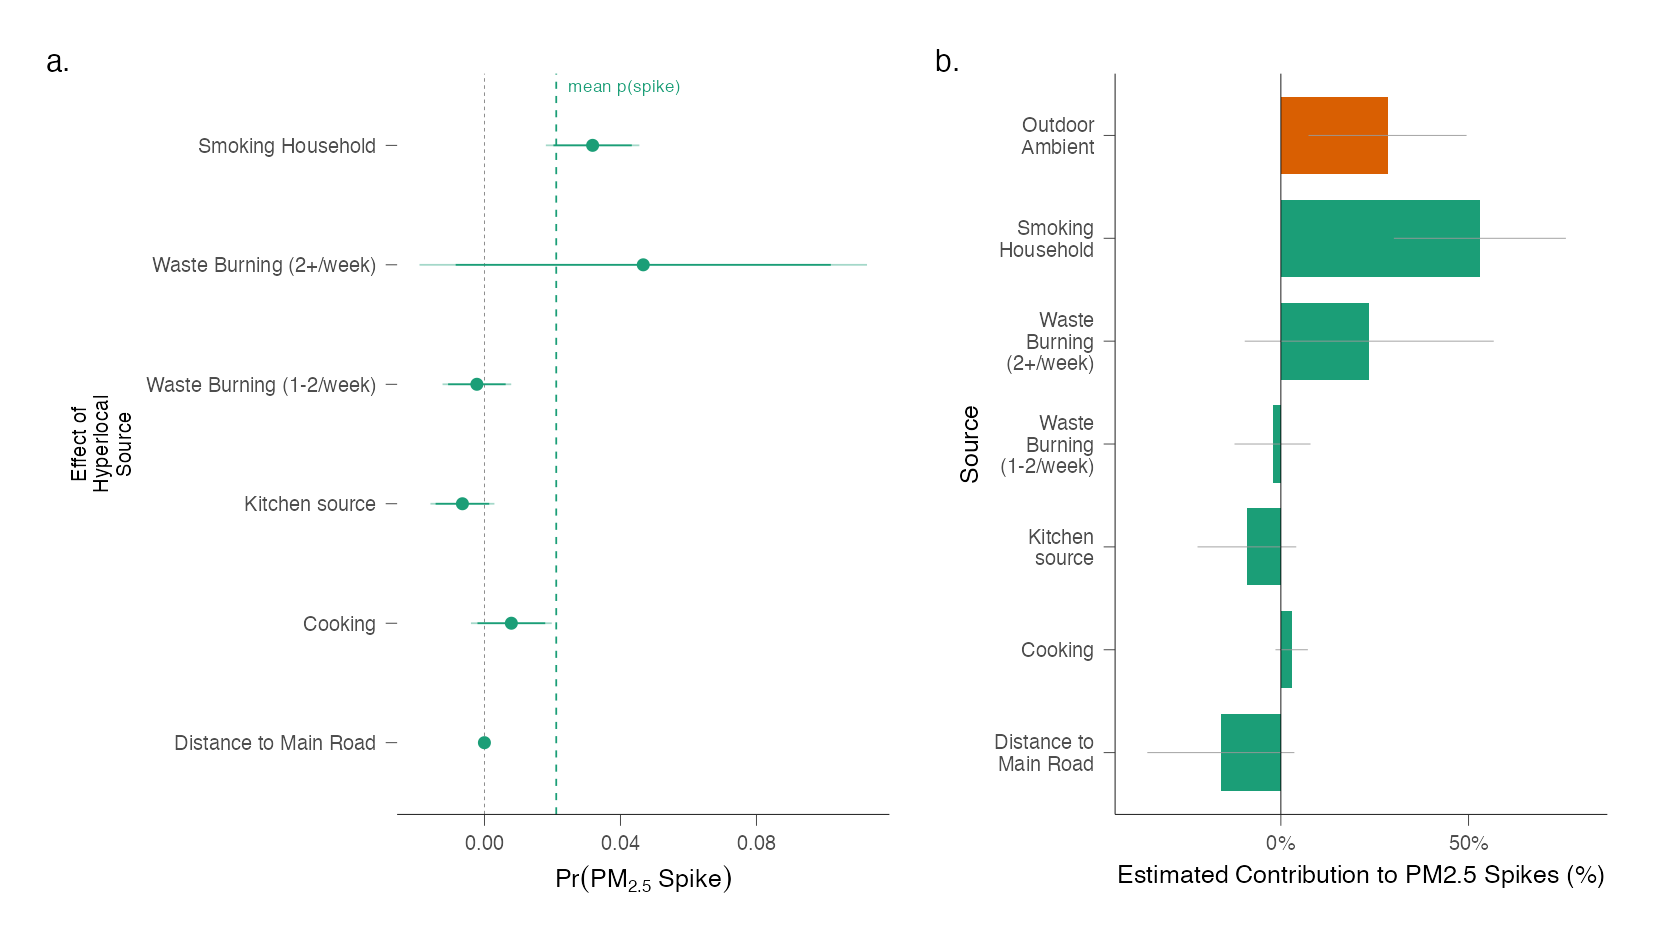
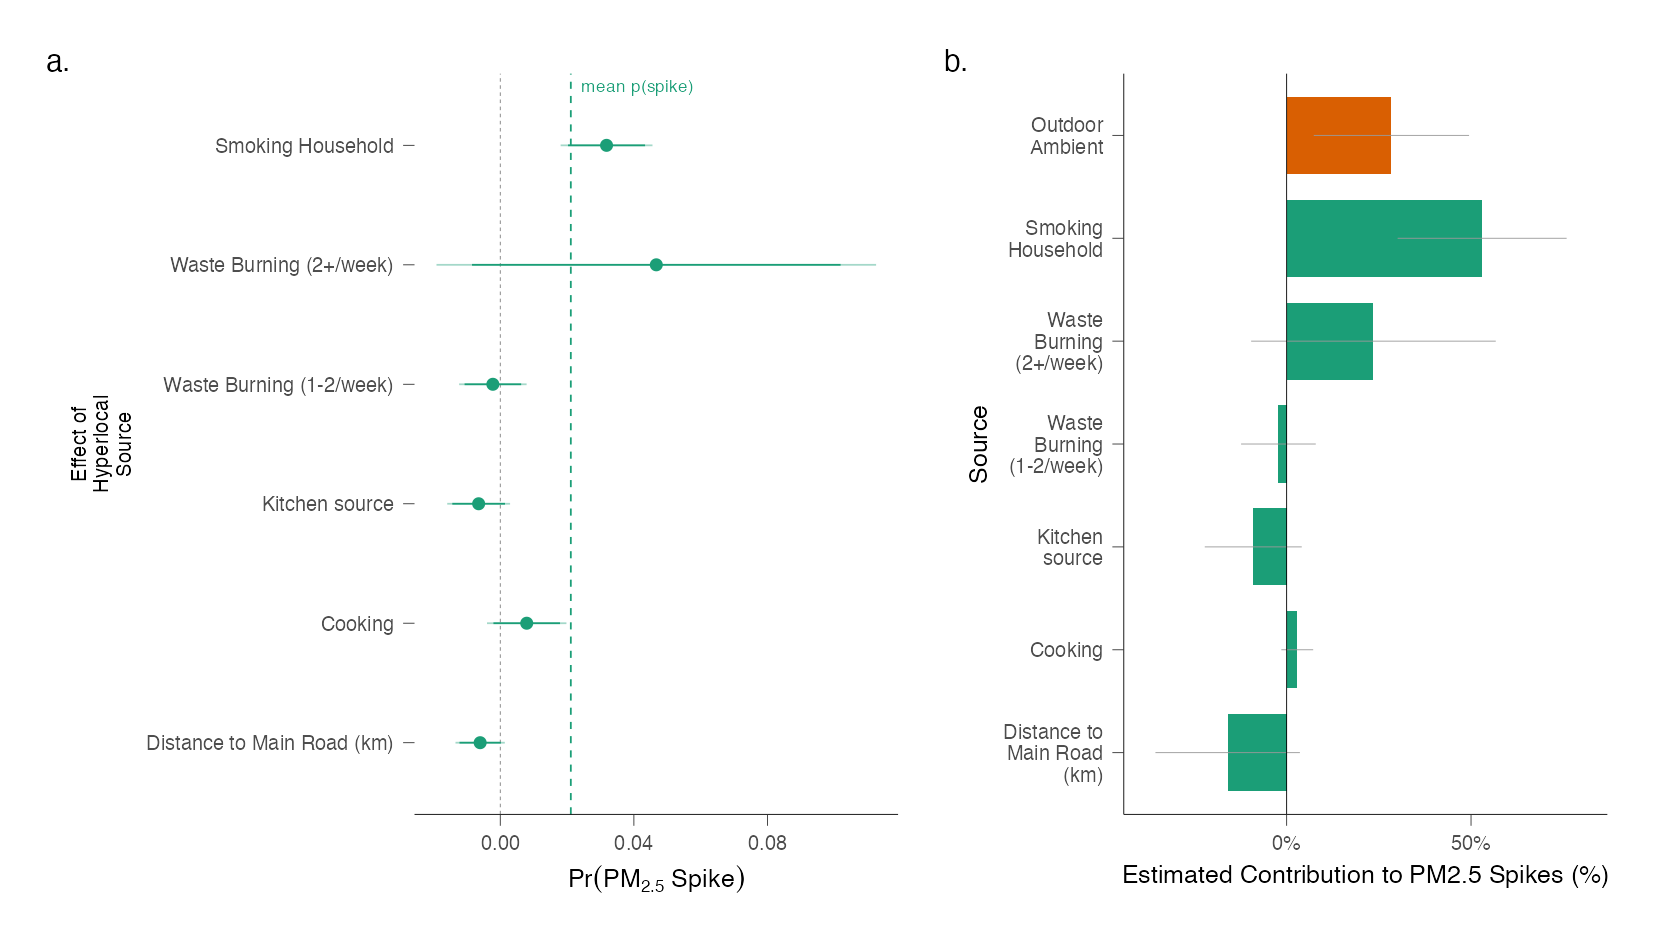
updated appendix and fig3 code to go from distance to road in m to km ; this makes it clear how dist to road can contribute to peaks

diff --git a/output/tables/reg_outdoor_burning.tex b/output/tables/reg_outdoor_burning.tex
@@ -4,29 +4,27 @@
 \begin{tabular}{lcc}
    \tabularnewline \midrule \midrule
    Dependent Variable: & \multicolumn{2}{c}{Outdoor PM2.5}\\
-                                                       & Closest 3 Sensors & HH Within 2km of Outdoor Sensor \\   
-   Model:                                              & (1)               & (2)\\  
+                            & Closest 3 Sensors & HH Within 2km of Outdoor Sensor \\   
+   Model:                   & (1)               & (2)\\  
    \midrule
    \emph{Variables}\\
-   trash\_burning\_1week\_baseline::                   & 2.70$^{***}$      &   \\   
-                                                       & (0.427)           &   \\   
-   trash\_burning\_1week\_baseline $=$ 1or2times       & 0.899             & 0.410\\   
-                                                       & (0.770)           & (0.734)\\   
-   trash\_burning\_1week\_baseline $=$ 3ormoretimes    & 3.65$^{***}$      & 5.25$^{***}$\\   
-                                                       & (0.991)           & (1.79)\\   
-   Outdoor Temperature                                 & -0.381            & 0.145\\   
-                                                       & (0.243)           & (0.255)\\   
-   Outdoor Humidity                                    & -0.194$^{***}$    & -0.180$^{***}$\\   
-                                                       & (0.042)           & (0.048)\\   
+   Waste Burning (1-2/week) & 0.900             & 0.410\\   
+                            & (0.770)           & (0.734)\\   
+   Waste Burning (3+/week)  & 3.65$^{***}$      & 5.25$^{***}$\\   
+                            & (0.991)           & (1.79)\\   
+   Outdoor Temperature      & -0.380            & 0.145\\   
+                            & (0.243)           & (0.255)\\   
+   Outdoor Humidity         & -0.194$^{***}$    & -0.180$^{***}$\\   
+                            & (0.042)           & (0.048)\\   
    \midrule
    \emph{Fixed-effects}\\
-   Week FE                                             & Yes               & Yes\\  
-   Hour FE                                             & Yes               & Yes\\  
+   Week FE                  & Yes               & Yes\\  
+   Hour FE                  & Yes               & Yes\\  
    \midrule
    \emph{Fit statistics}\\
-   Observations                                        & 826,446           & 423,609\\  
-   R$^2$                                               & 0.38575           & 0.37695\\  
-   Within R$^2$                                        & 0.00944           & 0.01310\\  
+   Observations             & 823,850           & 423,609\\  
+   R$^2$                    & 0.38558           & 0.37695\\  
+   Within R$^2$             & 0.00940           & 0.01310\\  
    \midrule \midrule
    \multicolumn{3}{l}{\emph{Clustered (respondent\_id \& date\_hour) standard-errors in parentheses}}\\
    \multicolumn{3}{l}{\emph{Signif. Codes: ***: 0.01, **: 0.05, *: 0.1}}\\

diff --git a/output/tables/spike_contribution_table.tex b/output/tables/spike_contribution_table.tex
@@ -11,6 +11,6 @@ Waste Burning &  &  &  &  & 19\%\\
 \addlinespace
 Kitchen source & -0.006 & 0.176 & 0.30 & -9\% & 2\%\\
 Cooking & 0.008 & 0.191 & 0.08 & 3\% & 1\%\\
-Distance to Main Road & 0.000 & 0.109 & 560.23 & -16\% & 5\%\\
+Distance to Main Road (km) & -0.006 & 0.109 & 0.56 & -16\% & 5\%\\
 \bottomrule
 \end{tabular}

diff --git a/output/tables/mean_contribution_table.tex b/output/tables/mean_contribution_table.tex
@@ -11,6 +11,6 @@ Waste Burning &  &  &  &  & 22\%\\
 \addlinespace
 Kitchen source & -0.34 & 0.959 & 0.30 & 0\% & 0\%\\
 Cooking & -2.45 & 0.474 & 0.08 & 0\% & 0\%\\
-Distance to Main Road & 0.00 & 0.706 & 560.23 & 5\% & 0\%\\
+Distance to Main Road (km) & 3.53 & 0.706 & 0.56 & 5\% & 0\%\\
 \bottomrule
 \end{tabular}
